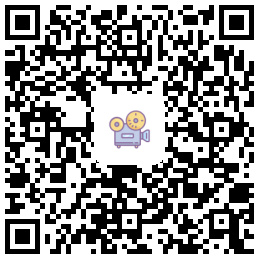
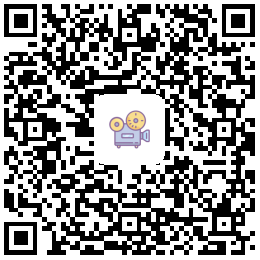
修改Readme

diff --git a/README.md b/README.md
@@ -28,7 +28,7 @@ Kotlin实现的视频播放器，将MediaPlayer与VideoView解耦合，支持切
 
 ### 下载
 
- - [Demo Download](https://github.com/maiwenchang/ArtPlayer/raw/master/app/debug/artplayer-debug.apk)
+ - [Demo Download](https://github.com/maiwenchang/ArtPlayer/releases/download/v1.0.0/artplayer-release.apk)
  - ![image](https://github.com/maiwenchang/ArtPlayer/raw/master/pic/apkqrcode.png)
 
 
